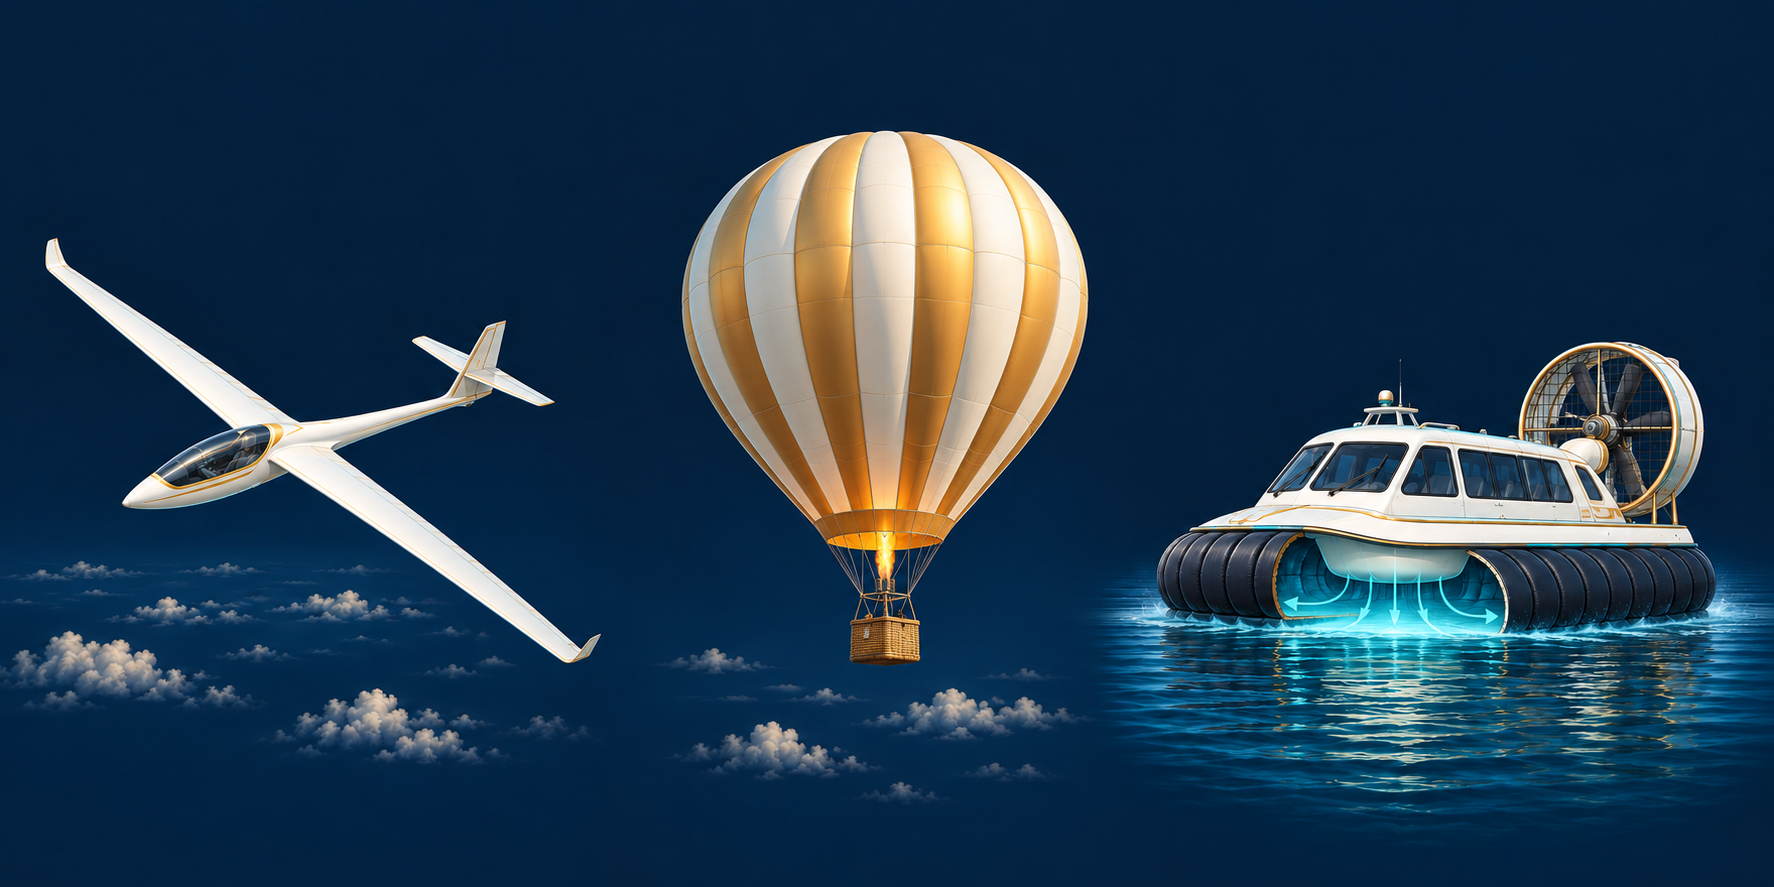
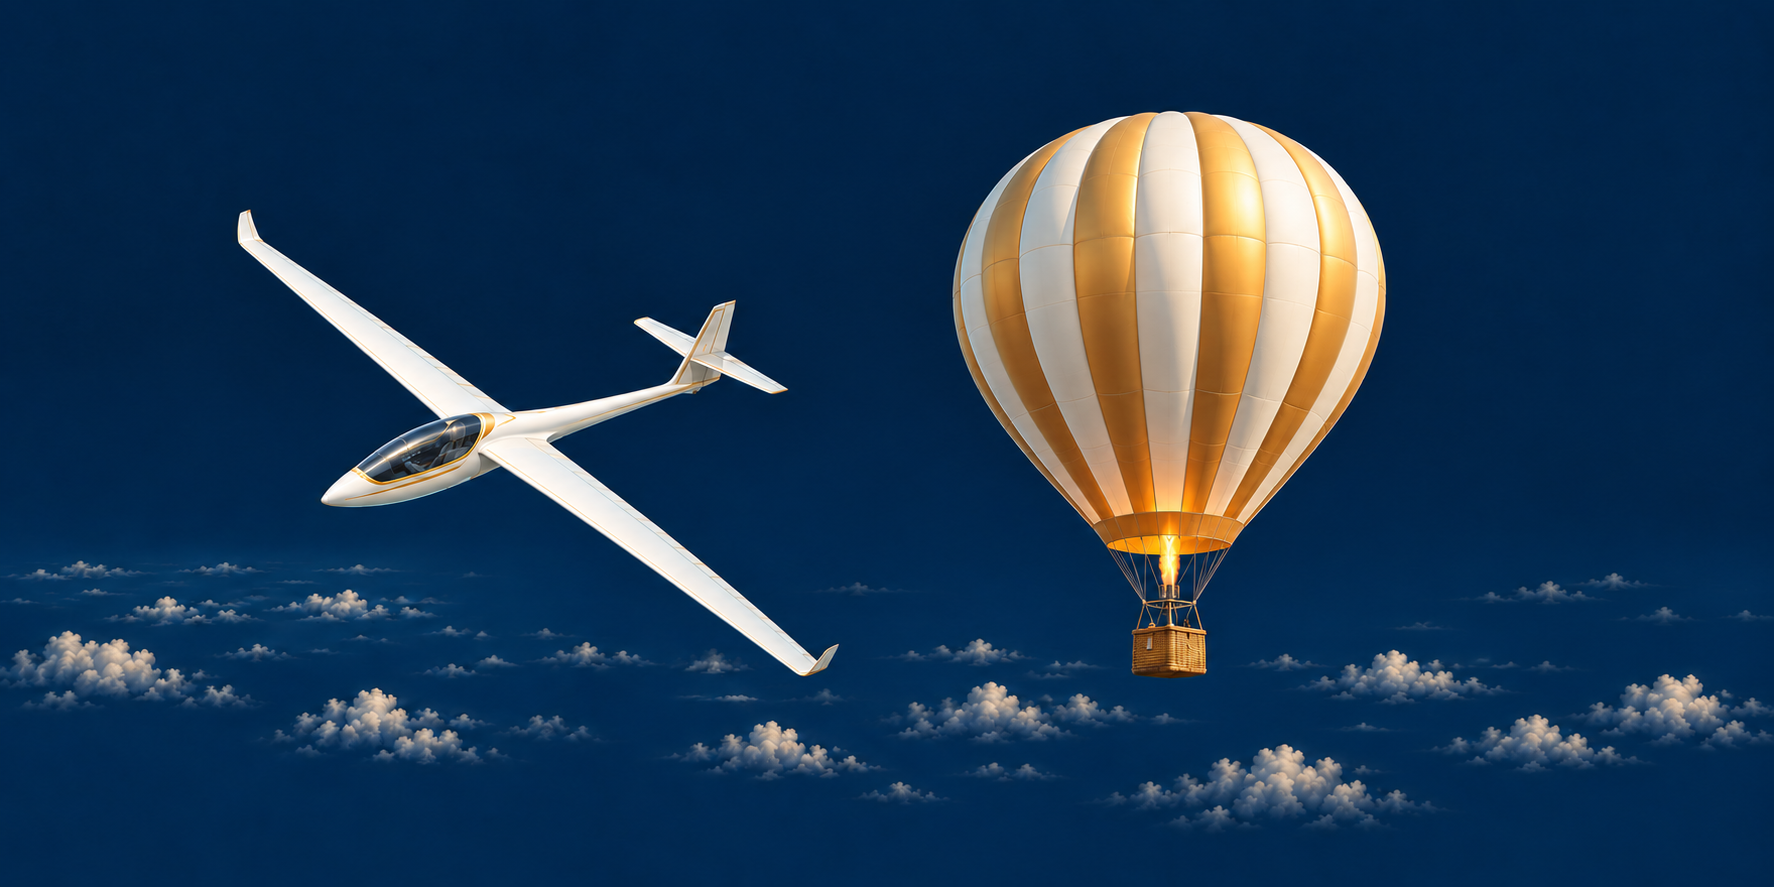
Refine CIAAC definitions, imagery and closing reflection

diff --git a/src/lib/lp/ciaac-aircraft-handbook.ts b/src/lib/lp/ciaac-aircraft-handbook.ts
@@ -29,12 +29,12 @@ export function aircraftHandbook(
 ): HandbookLearningPathDocument {
   const concept = [
     card(
-      "Cómo se sostiene",
-      "Una aeronave puede mantenerse en la atmósfera mediante reacciones del aire, excluyendo la reacción de este contra la superficie terrestre. Tener motor no es un requisito: un planeador obtiene sustentación en sus alas al desplazarse respecto del aire. Un globo también es aeronave, aunque se sostenga por flotación y no tenga alas.\n\nEn cambio, el aerodeslizador se apoya en un colchón de aire contra la superficie. Esa diferencia en la forma de sostenerse lo deja fuera de la definición.",
+      "Aeronave: definición formal",
+      "«Toda máquina que puede sustentarse en la atmósfera por reacciones del aire que no sean las reacciones de esta contra la superficie de la tierra.»\n\nAFAC · Lista de Definiciones y Acrónimos, 1 de marzo de 2024, p. 1.\n\nTener motor no es un requisito: un planeador obtiene sustentación en sus alas al desplazarse respecto del aire. Un globo también es aeronave, aunque se sostenga por flotación y no tenga alas.",
     ),
     card(
-      "Qué tiempo estamos midiendo",
-      "Un avión estacionado sigue siendo una aeronave. Cuando hablamos de tiempo de vuelo, preguntamos por un intervalo con principio y final establecidos. Puede incluir momentos en tierra. Las definiciones siguientes corresponden al marco OACI indicado; no definen todos los usos legales de la expresión «en vuelo».",
+      "Aeronave en vuelo: contexto AVSEC",
+      "«Una aeronave, desde el momento en que se cierran todas sus puertas externas después del embarque, hasta el momento en que se abran dichas puertas para el desembarque.»\n\nAFAC · Lista de Definiciones y Acrónimos, 1 de marzo de 2024, p. 1. Esta definición corresponde a seguridad de la aviación civil (AVSEC). No equivale al tiempo de vuelo que calculamos en las siguientes etapas.",
     ),
   ];
   const airplane = [
@@ -59,7 +59,7 @@ export function aircraftHandbook(
   ];
   return {
     ...source,
-    title: "Cuándo empieza a contar el vuelo",
+    title: "¿Cuándo empieza a contar el vuelo?",
     intro:
       "Aprende desde qué momento y hasta cuándo se cuenta el tiempo de vuelo de un avión y de un helicóptero, según las definiciones OACI estudiadas.",
     cards: [
@@ -142,8 +142,8 @@ export function aircraftHandbook(
       { kind: "quiz", nav: "Preflight check", diagnostic: true, questions: [0] },
       {
         kind: "content",
-        nav: "Qué es una aeronave",
-        title: "Qué es una aeronave",
+        nav: "¿Qué es una aeronave?",
+        title: "¿Qué es una aeronave?",
         cards: concept,
         figures: [],
       },
@@ -168,19 +168,22 @@ export function aircraftHandbook(
         kind: "content",
         nav: "Cierre rápido",
         title: "Cierre rápido",
-        cards: [
-          card(
-            "Antes de avanzar",
-            "Un avión aterriza a las 12:20 y se detiene finalmente en plataforma a las 12:27. ¿Qué hora usarías como final de su tiempo de vuelo? Comprueba tu respuesta: 12:27, cuando termina el movimiento al finalizar la operación.",
-            true,
-          ),
-        ],
+        cards: [],
         figures: [],
       },
       { kind: "finish", nav: "Aterrizaje" },
     ],
     ciaac: undefined,
     sources: [
+      {
+        id: "afac-avsec-definitions-2024",
+        title: "AFAC · Lista de Definiciones y Acrónimos · 1 de marzo de 2024",
+        role: "Definiciones formales de aeronave y aeronave en vuelo en el contexto AVSEC.",
+        url: "https://www.gob.mx/cms/uploads/attachment/file/906219/lista-definiciones-acronimos.pdf",
+        verified_locators: ["Página 1 de 11 · revisión Original"],
+        limit:
+          "La definición AVSEC de aeronave en vuelo no sustituye los criterios de tiempo de vuelo estudiados en esta lección.",
+      },
       {
         id: "icao-8984",
         title: "OACI · Manual de medicina aeronáutica civil · Doc 8984, tercera edición",

diff --git a/src/components/lp/CiaacAircraftHandbookVisual.tsx b/src/components/lp/CiaacAircraftHandbookVisual.tsx
@@ -1,3 +1,5 @@
+import { useState } from "react";
+
 const ROOT = "/lp/ciaac/aircraft-handbook";
 
 function Art({ name, alt, caption }: { name: string; alt: string; caption: string }) {
@@ -24,7 +26,7 @@ export function AircraftHandbookVisual({ stage }: { stage: number }) {
       <div className="aircraft-concepts">
         <Art
           name="aircraft-support"
-          alt="Comparación de tres mecanismos: planeador sostenido por sus alas, globo por flotación y aerodeslizador sobre un colchón de aire contra la superficie."
+          alt="Dos formas de sostenerse: planeador sostenido por sus alas y globo por flotación."
           caption="La forma de sostenerse determina la clasificación"
         />
         <div className="aircraft-mechanisms">
@@ -33,9 +35,6 @@ export function AircraftHandbookVisual({ stage }: { stage: number }) {
           </span>
           <span>
             <strong>Globo</strong>Flotación · sí es aeronave
-          </span>
-          <span>
-            <strong>Aerodeslizador</strong>Colchón contra la superficie · excluido
           </span>
         </div>
       </div>
@@ -96,5 +95,58 @@ export function AircraftHandbookVisual({ stage }: { stage: number }) {
         </ol>
       </div>
     );
+  if (stage === 8) return <AircraftClosingReflection />;
   return null;
+}
+
+/** One optional closing reflection; it never changes the lesson's progression gates. */
+function AircraftClosingReflection() {
+  const [answer, setAnswer] = useState<string | null>(null);
+  return (
+    <section className="hb-card hb-dark">
+      <div className="hb-question" role="group" aria-label="El final del tiempo de vuelo">
+        <h3>¿Con qué hora cierras el intervalo?</h3>
+        <p>
+          Un avión aterriza a las 12:20 y se detiene finalmente en plataforma a las 12:27. ¿Qué hora
+          usarías como final de su tiempo de vuelo?
+        </p>
+        <div className="hb-options">
+          {["12:20", "12:27"].map((time) => (
+            <button
+              key={time}
+              type="button"
+              aria-pressed={answer === time}
+              className={answer === time ? (time === "12:27" ? "is-correct" : "is-wrong") : ""}
+              onClick={() => setAnswer(time)}
+            >
+              {time}
+            </button>
+          ))}
+        </div>
+        {answer !== null && (
+          <div
+            className={`hb-feedback ${answer === "12:27" ? "is-correct" : "is-wrong"}`}
+            role="status"
+          >
+            <strong>
+              {answer === "12:27" ? "Correcto: a las 12:27." : "El intervalo termina a las 12:27."}
+            </strong>{" "}
+            A las 12:20 termina el tramo en el aire. Los siete minutos de rodaje también cuentan: el
+            tiempo de vuelo termina con la detención final en plataforma.
+          </div>
+        )}
+      </div>
+      {answer !== null && (
+        <div className="hb-tip">
+          <p>
+            <strong>La idea que te llevas:</strong> Una aeronave se reconoce por cómo se sostiene.
+            Para medir su tiempo de vuelo, identifica los límites de la operación: en el avión, el
+            movimiento para despegar y la detención final; en el helicóptero, el inicio del giro de
+            las palas y la detención tanto de la aeronave como del rotor. Tiempo de vuelo no es lo
+            mismo que tiempo en el aire.
+          </p>
+        </div>
+      )}
+    </section>
+  );
 }

diff --git a/tests/e2e/ciaac-aircraft.spec.ts b/tests/e2e/ciaac-aircraft.spec.ts
@@ -14,7 +14,7 @@ async function reachConcept(page: Page) {
 test("native ten-stage flow gates practice and completes once", async ({ page }) => {
   await reachConcept(page);
   await expect(
-    page.getByRole("heading", { name: "Qué es una aeronave", exact: true }),
+    page.getByRole("heading", { name: "¿Qué es una aeronave?", exact: true }),
   ).toBeVisible();
   await expect(page.locator('img[src$="aircraft-support.png"]')).toBeVisible();
   await next(page).click();
@@ -52,7 +52,14 @@ test("native ten-stage flow gates practice and completes once", async ({ page })
   await next(page).click();
   await page.getByRole("button", { name: /No, falta el propósito de despegar/ }).click();
   await next(page).click();
-  await expect(page.getByText(/Comprueba tu respuesta: 12:27/)).toBeVisible();
+  await expect(
+    page.getByRole("heading", { name: "¿Con qué hora cierras el intervalo?" }),
+  ).toBeVisible();
+  await page.getByRole("button", { name: "12:20", exact: true }).click();
+  await expect(page.getByText(/El intervalo termina a las 12:27/)).toBeVisible();
+  await page.getByRole("button", { name: "12:27", exact: true }).click();
+  await expect(page.getByText(/Correcto: a las 12:27/)).toBeVisible();
+  await expect(page.getByText("La idea que te llevas:", { exact: true })).toBeVisible();
   await next(page).click();
   await expect(
     page.getByRole("button", { name: "Completar Learning Path", exact: true }),

diff --git a/src/components/lp/CiaacAircraftLearningPath.tsx b/src/components/lp/CiaacAircraftLearningPath.tsx
@@ -7,7 +7,7 @@ import "./ciaac-aircraft-handbook.css";
 const presentation = {
   className: "aircraft-handbook",
   visual: (stage: number) =>
-    stage >= 1 && stage <= 4 ? <AircraftHandbookVisual stage={stage} /> : null,
+    (stage >= 1 && stage <= 4) || stage === 8 ? <AircraftHandbookVisual stage={stage} /> : null,
   migrate: migrateAircraftHandbookJourney,
 };
 

diff --git a/src/components/lp/ciaac-aircraft-handbook.css b/src/components/lp/ciaac-aircraft-handbook.css
@@ -173,7 +173,7 @@
 }
 .aircraft-mechanisms {
   display: grid;
-  grid-template-columns: repeat(3, minmax(0, 1fr));
+  grid-template-columns: repeat(2, minmax(0, 1fr));
   gap: 14px;
   margin: -10px 0 28px;
   text-align: center;
